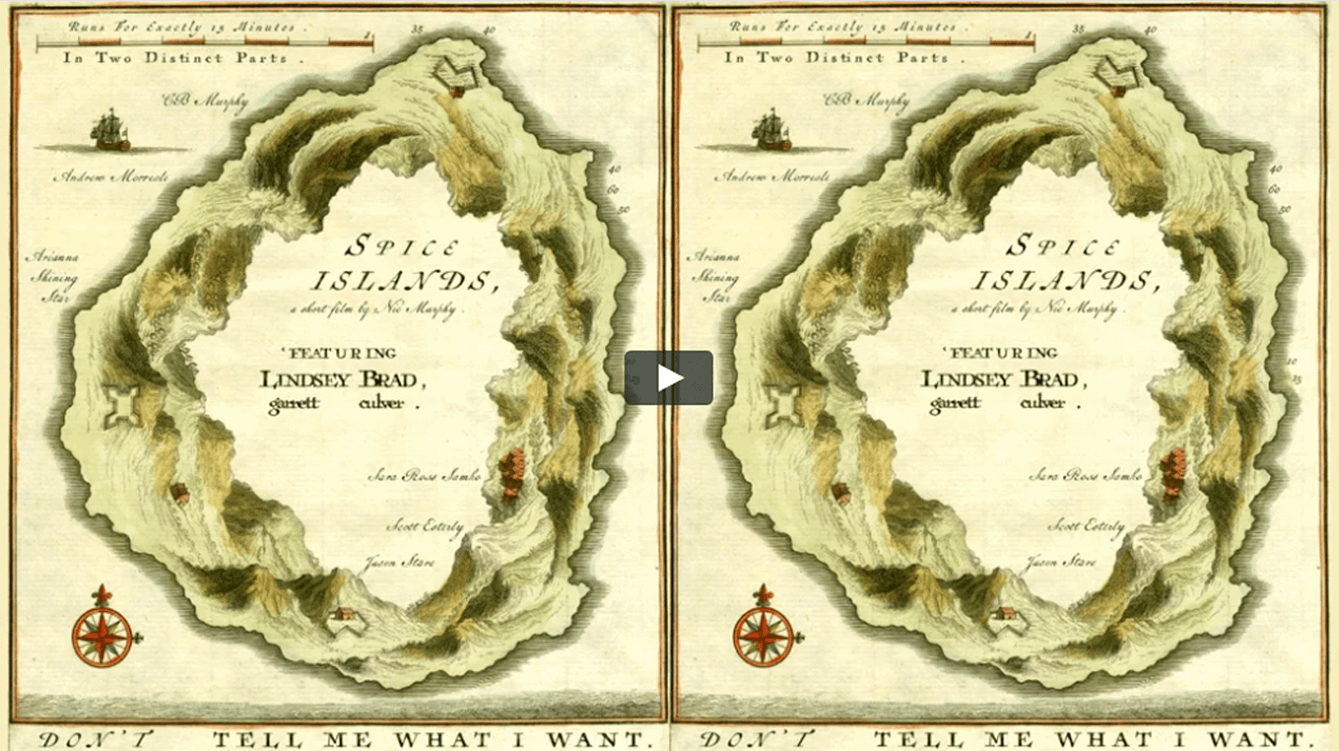
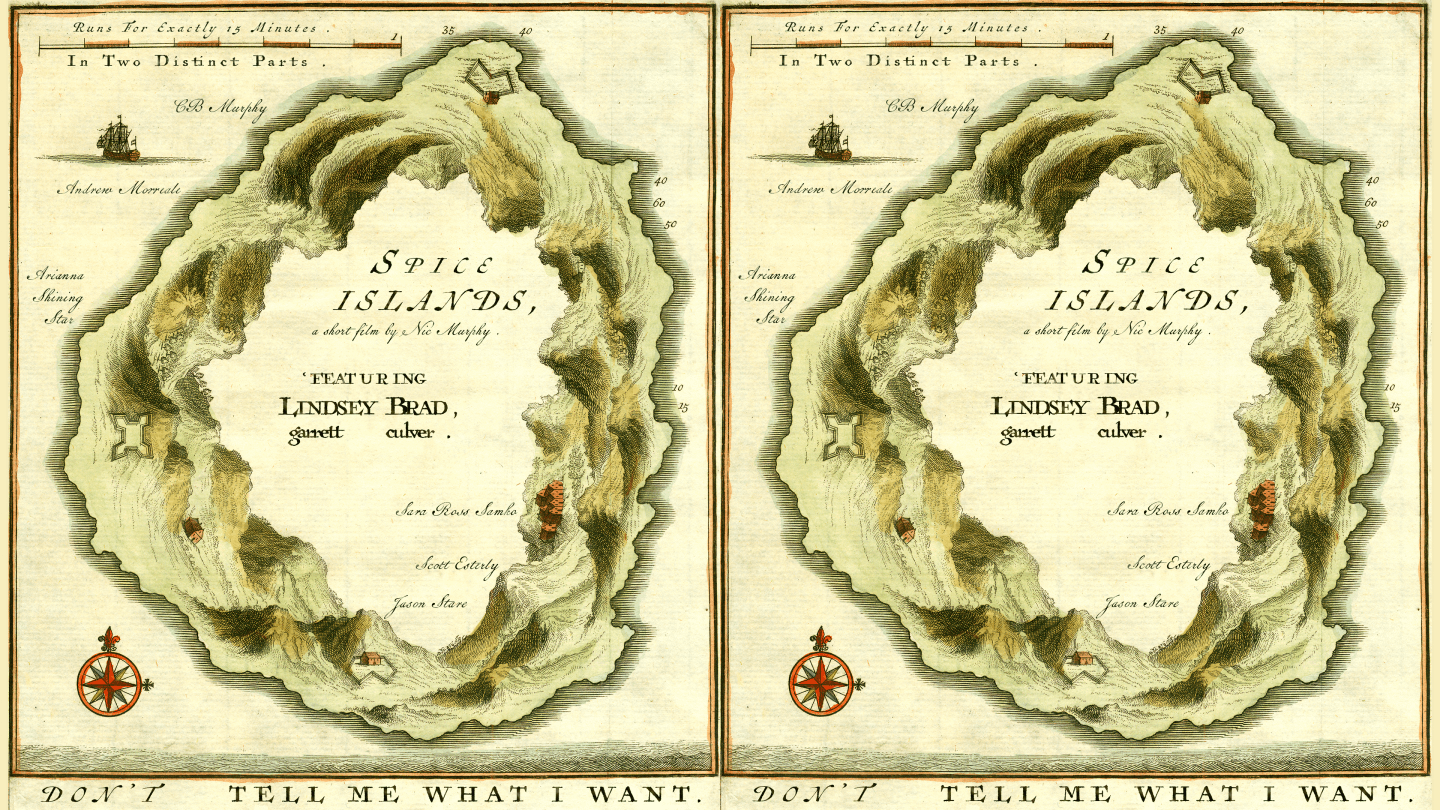
Remove hidden characters from copy paste, Adjust some spacing in header, new spice islands image

Changed region(s): [[0.0, 0.0, 1.0, 1.0], [0.1837, 0.4594, 0.3368, 0.5513]]

diff --git a/src/pages/404.js b/src/pages/404.js
@@ -35,10 +35,10 @@ const IndexPage = () => (
           target="_blank"
           rel="noopener noreferrer"
         >
-          WOOLF AND THE WONDERSHOW  PRESENTS: CAGES 
+          WOOLF AND THE WONDERSHOW PRESENTS: CAGES
         </Link>
         <Description>
-          Live Experience, 2019 
+          Live Experience, 2019
           <br />
           Theatrical Director
         </Description>
@@ -46,9 +46,15 @@ const IndexPage = () => (
 
       <WorkBlock>
         <Image src={spiceSrc} alt="Spice Islands" />
-        <Title>SPICE ISLANDS </Title>
+        <Link
+          href="https://spice-islands.netlify.com/"
+          target="_blank"
+          rel="noopener noreferrer"
+        >
+          SPICE ISLANDS
+        </Link>
         <Description>
-          Short Film, 2019 
+          Short Film, 2019
           <br />
           Writer, Director
         </Description>
@@ -65,9 +71,9 @@ const IndexPage = () => (
             allowFullScreen
           />
         </VideoWrapper>
-        <Title>BEAUTIFUL LOVE </Title>
+        <Title>BEAUTIFUL LOVE</Title>
         <Description>
-          Music Documentary, 2017 
+          Music Documentary, 2017
           <br />
           Director, Camera
         </Description>
@@ -86,7 +92,7 @@ const IndexPage = () => (
         </VideoWrapper>
         <Title>WAVES</Title>
         <Description>
-          Music Video, 2017 
+          Music Video, 2017
           <br />
           Director, Camera
         </Description>
@@ -94,22 +100,23 @@ const IndexPage = () => (
 
       <WorkBlock>
         <Image src={bardoSrc} alt="BARDO ZSA ZSA" />
-        <Title>BARDO ZSA ZSA</Title>
-        <Indent>
+        <Row>
+          <Title>BARDO ZSA ZSA</Title>
           <Link href={bardoLink}>FIRST CHAPTER</Link>
-        </Indent>
+        </Row>
         <Description>Novel, 2018</Description>
       </WorkBlock>
 
       <WorkBlock>
-        <Image src={publicSrc} alt="PUBLIC ASSEMBLY  THEATER COMPANY" />
+        <Image src={publicSrc} alt="PUBLIC ASSEMBLY THEATER COMPANY" />
         <Link href="https://www.publicassembly.us/">
-          PUBLIC ASSEMBLY  <br />
+          PUBLIC ASSEMBLY
+          <br />
           THEATER COMPANY
         </Link>
-        <Description>Founding Member, Photographer </Description>
+        <Description>Founding Member, Photographer</Description>
         <IndentedRow>
-          <Subtitle marginBottom="0">LOIS LANE AND THE MEN OF STEEL </Subtitle>
+          <Subtitle marginBottom="0">LOIS LANE AND THE MEN OF STEEL</Subtitle>
           <Row>
             <Description>Writer, Director</Description>
             <Link href={loisSrc}>SCRIPT</Link>
@@ -119,29 +126,29 @@ const IndexPage = () => (
           <Subtitle>
             THE DAY AFTER TOMORROW
             <br />
-            STARRING DENNIS QUAID 
+            STARRING DENNIS QUAID
           </Subtitle>
-          <Description>Writer, Director  </Description>
+          <Description>Writer, Director</Description>
         </IndentedRow>
         <IndentedRow>
-          <Subtitle>THE BODHI TREE </Subtitle>
-          <Description>Writer, Director  </Description>
+          <Subtitle>THE BODHI TREE</Subtitle>
+          <Description>Writer, Director</Description>
         </IndentedRow>
       </WorkBlock>
 
       <WorkBlock>
-        <Image src={ghostSrc} alt="GHOST COMMANDER " />
+        <Image src={ghostSrc} alt="GHOST COMMANDER" />
         <Link
           href="https://www.youtube.com/watch?v=SDeuJSRg1sE"
           target="_blank"
           rel="noopener noreferrer"
         >
-          FIRST CHAPTER
+          GHOST COMMANDER
         </Link>
         <Description>
-          Narrative Livestream, 2018 
+          Narrative Livestream, 2018
           <br />
-          Assistant Director (dir. Lauren Liedel) 
+          Assistant Director (dir. Lauren Liedel)
         </Description>
       </WorkBlock>
 
@@ -156,11 +163,11 @@ const IndexPage = () => (
             allowFullScreen
           />
         </VideoWrapper>
-        <Subtitle>NEW GUARD THEATER COMPANY’S  TARTUFFE </Subtitle>
+        <Subtitle>NEW GUARD THEATER COMPANY'S TARTUFFE</Subtitle>
         <Description>
-          Proscenium Theater, 2017 
+          Proscenium Theater, 2017
           <br />
-          Assistant Director (dir. Satya Bhabha) 
+          Assistant Director (dir. Satya Bhabha)
         </Description>
       </WorkBlock>
 
@@ -175,11 +182,11 @@ const IndexPage = () => (
             allowFullScreen
           />
         </VideoWrapper>
-        <Title>RINGO - ATMOSPHERE </Title>
+        <Title>RINGO - ATMOSPHERE</Title>
         <Description>
-          Music Video, 2016  
+          Music Video, 2016
           <br />
-          Assistant Director (dir. Ryan KRON Thompson) 
+          Assistant Director (dir. Ryan KRON Thompson)
         </Description>
       </WorkBlock>
     </Content>
@@ -191,7 +198,7 @@ const Content = styled.div`
 `
 
 const WorkBlock = styled.div`
-  margin-bottom: 3vw;
+  margin-bottom: 5vw;
 `
 
 const VideoWrapper = styled.div`
@@ -236,10 +243,6 @@ const Subtitle = styled.h3`
 const Description = styled.p`
   font-size: 3.6vw;
   margin: 0;
-`
-
-const Indent = styled.div`
-  padding-left: 5vw;
 `
 
 const IndentedRow = styled.div`

diff --git a/src/pages/index.js b/src/pages/index.js
@@ -35,10 +35,10 @@ const IndexPage = () => (
           target="_blank"
           rel="noopener noreferrer"
         >
-          WOOLF AND THE WONDERSHOW  PRESENTS: CAGES 
+          WOOLF AND THE WONDERSHOW PRESENTS: CAGES
         </Link>
         <Description>
-          Live Experience, 2019 
+          Live Experience, 2019
           <br />
           Theatrical Director
         </Description>
@@ -46,9 +46,15 @@ const IndexPage = () => (
 
       <WorkBlock>
         <Image src={spiceSrc} alt="Spice Islands" />
-        <Title>SPICE ISLANDS </Title>
+        <Link
+          href="https://spice-islands.netlify.com/"
+          target="_blank"
+          rel="noopener noreferrer"
+        >
+          SPICE ISLANDS
+        </Link>
         <Description>
-          Short Film, 2019 
+          Short Film, 2019
           <br />
           Writer, Director
         </Description>
@@ -65,9 +71,9 @@ const IndexPage = () => (
             allowFullScreen
           />
         </VideoWrapper>
-        <Title>BEAUTIFUL LOVE </Title>
+        <Title>BEAUTIFUL LOVE</Title>
         <Description>
-          Music Documentary, 2017 
+          Music Documentary, 2017
           <br />
           Director, Camera
         </Description>
@@ -86,7 +92,7 @@ const IndexPage = () => (
         </VideoWrapper>
         <Title>WAVES</Title>
         <Description>
-          Music Video, 2017 
+          Music Video, 2017
           <br />
           Director, Camera
         </Description>
@@ -94,22 +100,23 @@ const IndexPage = () => (
 
       <WorkBlock>
         <Image src={bardoSrc} alt="BARDO ZSA ZSA" />
-        <Title>BARDO ZSA ZSA</Title>
-        <Indent>
+        <Row>
+          <Title>BARDO ZSA ZSA</Title>
           <Link href={bardoLink}>FIRST CHAPTER</Link>
-        </Indent>
+        </Row>
         <Description>Novel, 2018</Description>
       </WorkBlock>
 
       <WorkBlock>
-        <Image src={publicSrc} alt="PUBLIC ASSEMBLY  THEATER COMPANY" />
+        <Image src={publicSrc} alt="PUBLIC ASSEMBLY THEATER COMPANY" />
         <Link href="https://www.publicassembly.us/">
-          PUBLIC ASSEMBLY  <br />
+          PUBLIC ASSEMBLY
+          <br />
           THEATER COMPANY
         </Link>
-        <Description>Founding Member, Photographer </Description>
+        <Description>Founding Member, Photographer</Description>
         <IndentedRow>
-          <Subtitle marginBottom="0">LOIS LANE AND THE MEN OF STEEL </Subtitle>
+          <Subtitle marginBottom="0">LOIS LANE AND THE MEN OF STEEL</Subtitle>
           <Row>
             <Description>Writer, Director</Description>
             <Link href={loisSrc}>SCRIPT</Link>
@@ -119,29 +126,29 @@ const IndexPage = () => (
           <Subtitle>
             THE DAY AFTER TOMORROW
             <br />
-            STARRING DENNIS QUAID 
+            STARRING DENNIS QUAID
           </Subtitle>
-          <Description>Writer, Director  </Description>
+          <Description>Writer, Director</Description>
         </IndentedRow>
         <IndentedRow>
-          <Subtitle>THE BODHI TREE </Subtitle>
-          <Description>Writer, Director  </Description>
+          <Subtitle>THE BODHI TREE</Subtitle>
+          <Description>Writer, Director</Description>
         </IndentedRow>
       </WorkBlock>
 
       <WorkBlock>
-        <Image src={ghostSrc} alt="GHOST COMMANDER " />
+        <Image src={ghostSrc} alt="GHOST COMMANDER" />
         <Link
           href="https://www.youtube.com/watch?v=SDeuJSRg1sE"
           target="_blank"
           rel="noopener noreferrer"
         >
-          FIRST CHAPTER
+          GHOST COMMANDER
         </Link>
         <Description>
-          Narrative Livestream, 2018 
+          Narrative Livestream, 2018
           <br />
-          Assistant Director (dir. Lauren Liedel) 
+          Assistant Director (dir. Lauren Liedel)
         </Description>
       </WorkBlock>
 
@@ -156,11 +163,11 @@ const IndexPage = () => (
             allowFullScreen
           />
         </VideoWrapper>
-        <Subtitle>NEW GUARD THEATER COMPANY’S  TARTUFFE </Subtitle>
+        <Subtitle>NEW GUARD THEATER COMPANY'S TARTUFFE</Subtitle>
         <Description>
-          Proscenium Theater, 2017 
+          Proscenium Theater, 2017
           <br />
-          Assistant Director (dir. Satya Bhabha) 
+          Assistant Director (dir. Satya Bhabha)
         </Description>
       </WorkBlock>
 
@@ -175,11 +182,11 @@ const IndexPage = () => (
             allowFullScreen
           />
         </VideoWrapper>
-        <Title>RINGO - ATMOSPHERE </Title>
+        <Title>RINGO - ATMOSPHERE</Title>
         <Description>
-          Music Video, 2016  
+          Music Video, 2016
           <br />
-          Assistant Director (dir. Ryan KRON Thompson) 
+          Assistant Director (dir. Ryan KRON Thompson)
         </Description>
       </WorkBlock>
     </Content>
@@ -191,7 +198,7 @@ const Content = styled.div`
 `
 
 const WorkBlock = styled.div`
-  margin-bottom: 3vw;
+  margin-bottom: 5vw;
 `
 
 const VideoWrapper = styled.div`
@@ -236,10 +243,6 @@ const Subtitle = styled.h3`
 const Description = styled.p`
   font-size: 3.6vw;
   margin: 0;
-`
-
-const Indent = styled.div`
-  padding-left: 5vw;
 `
 
 const IndentedRow = styled.div`

diff --git a/src/components/header.js b/src/components/header.js
@@ -14,7 +14,9 @@ const Header = () => (
         Resume
       </Link>
       <br />
-      <Link href="mailto:IG@nharrisonmurphy ">IG@nharrisonmurphy </Link>
+      <Link href="https://www.instagram.com/nharrisonmurphy/">
+        IG@nharrisonmurphy
+      </Link>
       <br />
       <Link href="mailto:nic@nicmurphy.com">nic@nicmurphy.com</Link>
     </Links>
@@ -25,11 +27,11 @@ const Header = () => (
 )
 
 const Container = styled.header`
-  padding: 4vw;
+  padding: 2vw 4vw;
 `
 
 const Headline = styled.h1`
-  font-size: 13vw;
+  font-size: 14vw;
   line-height: 1;
   margin: 0;
   text-align: center;
@@ -49,7 +51,7 @@ const Tagline = styled.p`
 `
 
 const Links = styled.section`
-  padding: 10vw 1vw 5vw 1vw;
+  padding: 5vw 1vw;
 `
 
 const Link = styled.a`
